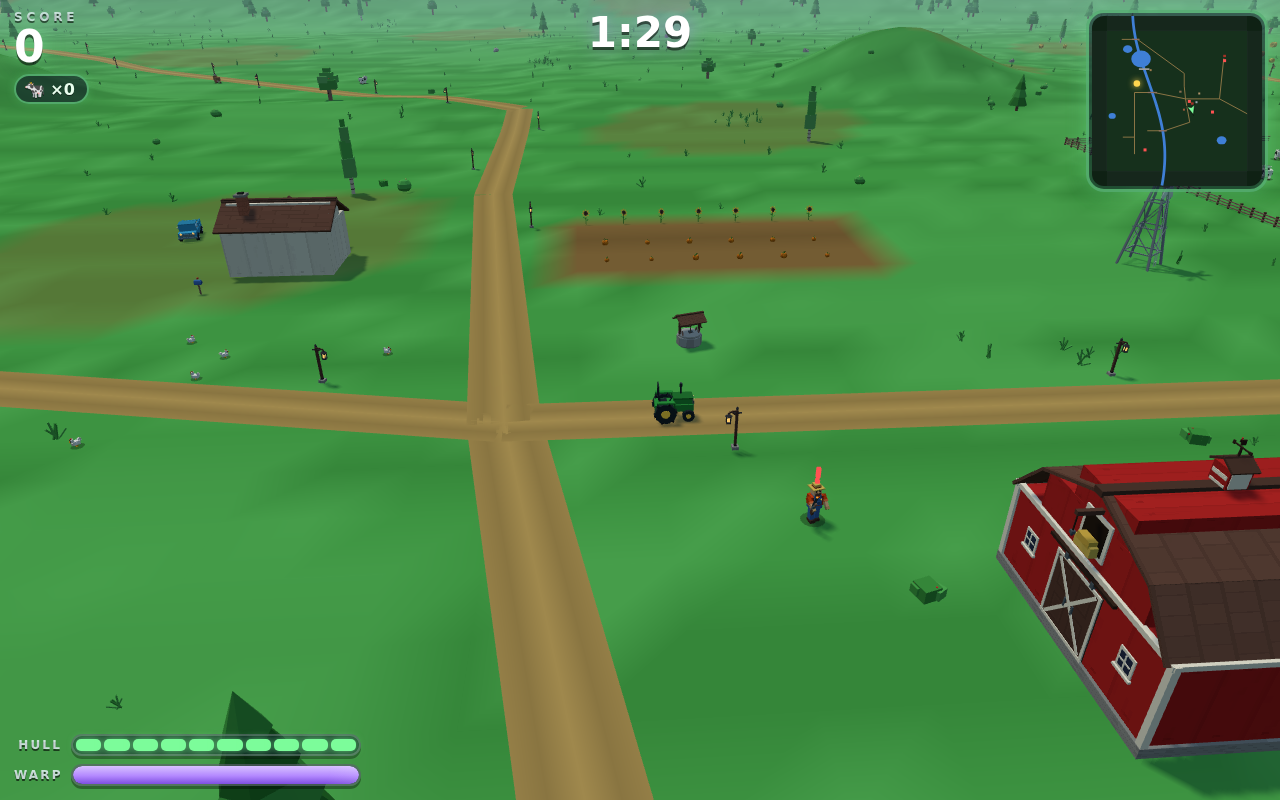
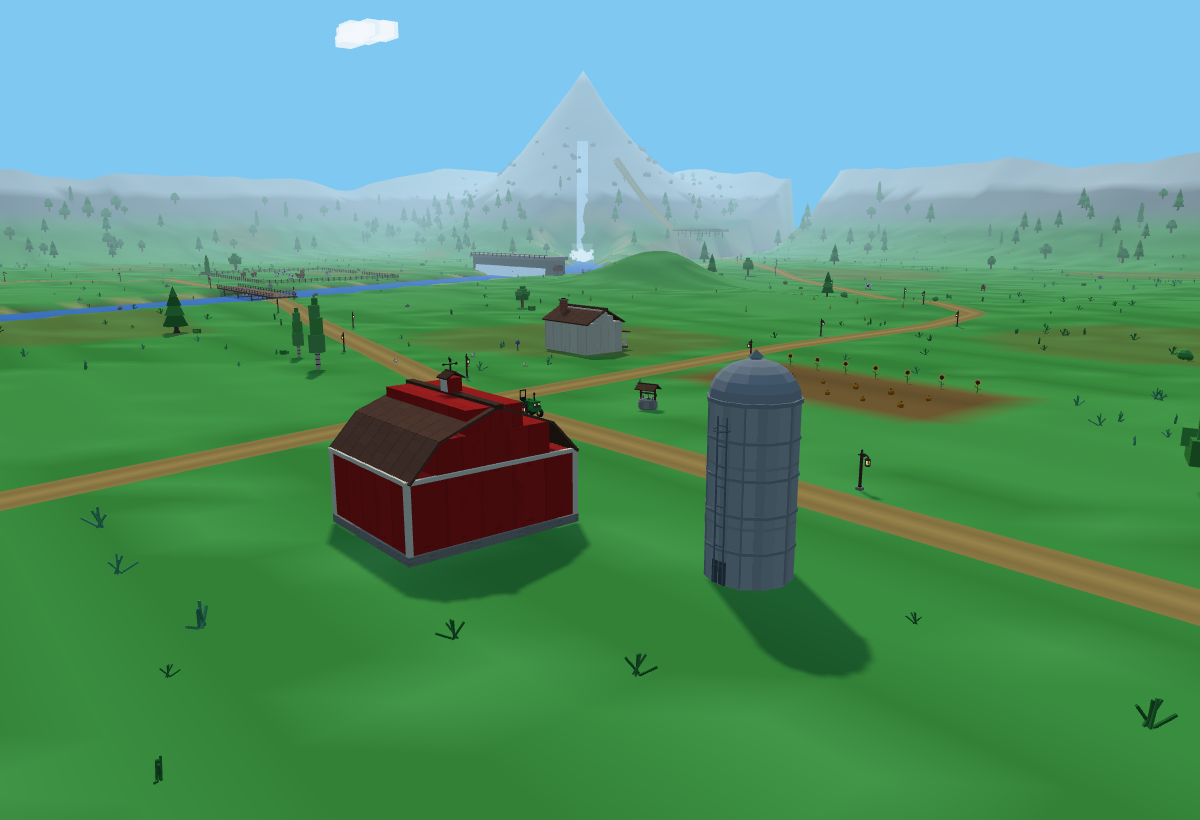
Cinematic mode-card art, emoji-free HUD/controls, cinematic free-cam hook
- New mode-select card images: sunset mountain+waterfall (Campaign), barn/farm vista (Free Play), starlit dam at night (Multiplayer), composed via a new debug free-camera hook
- Replaced HUD + touch-control emojis (cow chip, campaign goal, beam/warp/pause buttons) with crisp inline-SVG icons; removed dead day-clock code (☀/🌙)

Campaign level-select canvas redesign is in progress in js/ui.js (committed separately once complete).

https://claude.ai/code/session_01GTHb8vUvpoQFG3PNvNXKL4

diff --git a/js/hud.js b/js/hud.js
@@ -13,6 +13,23 @@ import { CFG } from './config.js';
 
 const HEALTH_SEGS = 10;
 
+// Crisp inline-SVG icons (no emojis anywhere in the HUD).
+const COW_SVG =
+  '<svg width="20" height="17" viewBox="0 0 20 17" aria-hidden="true">' +
+  '<path d="M3 3 Q1 1 2 5 Z" fill="#2b2b2b"/><path d="M17 3 Q19 1 18 5 Z" fill="#2b2b2b"/>' +
+  '<ellipse cx="10" cy="9" rx="6.6" ry="5.4" fill="#f5f5f0"/>' +
+  '<ellipse cx="6.4" cy="6.6" rx="2" ry="1.5" fill="#2b2b2b"/>' +
+  '<ellipse cx="13.8" cy="10.8" rx="1.5" ry="1.1" fill="#2b2b2b"/>' +
+  '<circle cx="8" cy="8.4" r="0.9" fill="#2b2b2b"/><circle cx="12" cy="8.4" r="0.9" fill="#2b2b2b"/>' +
+  '<ellipse cx="10" cy="12" rx="3.2" ry="2.2" fill="#f2a9b8"/>' +
+  '<circle cx="8.7" cy="12.1" r="0.6" fill="#c97a8c"/><circle cx="11.3" cy="12.1" r="0.6" fill="#c97a8c"/>' +
+  '</svg>';
+const TARGET_SVG =
+  '<svg width="16" height="16" viewBox="0 0 16 16" aria-hidden="true" style="vertical-align:-2px;margin-right:5px">' +
+  '<circle cx="8" cy="8" r="7" fill="none" stroke="#7cfc9a" stroke-width="2"/>' +
+  '<circle cx="8" cy="8" r="3.4" fill="none" stroke="#7cfc9a" stroke-width="2"/>' +
+  '<circle cx="8" cy="8" r="1.1" fill="#7cfc9a"/></svg>';
+
 // Day-phase tints — forwarded to end-screen backdrops via --mf-phase-glow.
 const CLOCK_TINTS = {
   NIGHT: '#7aa2ff',   // soft blue
@@ -66,7 +83,8 @@ export class HUD {
     this._scoreEl = el('div', 'mf-score', scoreWrap, '0');
     const chipRow = el('div', 'mf-chip-row', scoreWrap);
     const chip = el('div', 'mf-cow-chip', chipRow);
-    el('span', 'mf-cow-chip-ico', chip, '🐄');
+    const cowIco = el('span', 'mf-cow-chip-ico', chip);
+    cowIco.innerHTML = COW_SVG;
     this._cowsEl = el('span', 'mf-cow-chip-n', chip, '×0');
     this._comboEl = el('div', 'mf-combo mf-hidden', chipRow, '×2');
 
@@ -84,6 +102,8 @@ export class HUD {
       padding: '5px 12px', whiteSpace: 'nowrap', pointerEvents: 'none',
       textShadow: '0 1px 2px rgba(0,0,0,0.6)',
     });
+    this._goalEl.innerHTML = TARGET_SVG;
+    this._goalTxt = el('span', '', this._goalEl, '');
 
     // --- Bars (bottom-left) ---
     const bars = el('div', 'mf-bars', root);
@@ -148,35 +168,6 @@ export class HUD {
     this._mctx.drawImage(this._mapStatic, 0, 0, size, size);
   }
 
-  /**
-   * Day-cycle clock — a small semicircular arc dial. Lives OUTSIDE the HUD
-   * root (own element on document.body) so it stays visible through menus,
-   * pause and end screens; z-index sits above every overlay, pointer-events
-   * none. Hidden until the first updateClock() call arrives.
-   */
-  _buildClock() {
-    const root = el('div', 'mf-clock mf-clock-idle');
-    root.id = 'mf-clock';
-
-    const dial = el('div', 'mf-clock-dial', root);
-    el('div', 'mf-clock-horizon', dial);
-    this._sunEl = el('div', 'mf-clock-marker mf-clock-sun', dial, '☀');
-    this._moonEl = el('div', 'mf-clock-marker mf-clock-moon', dial, '🌙');
-
-    const label = el('div', 'mf-clock-name', root);
-    this._clockIconEl = el('span', 'mf-clock-ico', label, '');
-    this._clockNameEl = el('span', 'mf-clock-txt', label, '');
-
-    // Desktop docking: directly below the minimap (wrap = size + 12px chrome,
-    // top 10px, 8px gap). Small screens reposition via media query in CSS.
-    root.style.setProperty('--mf-clock-top', `${10 + this._mapSize + 12 + 8}px`);
-
-    document.body.appendChild(root);
-    this._clockEl = root;
-    this._clockQ = null;     // last phase, quantized to CLOCK_STEP
-    this._clockName = null;  // last phase name
-  }
-
   // ======================================================================
   // Public API
   // ======================================================================
@@ -188,7 +179,7 @@ export class HUD {
   update({ score, timeLeft, health, combo, warpEnergy, cows, goal } = {}) {
     const p = this._prev;
 
-    // Campaign goal pill: "🎯 score / target", greener once the goal is hit.
+    // Campaign goal pill (target icon + "score / target"); greener once hit.
     if (typeof goal === 'number') {
       const on = goal > 0;
       if (on !== p.goalOn) {
@@ -198,7 +189,7 @@ export class HUD {
       }
       if (on) {
         const sc = typeof score === 'number' ? score : 0;
-        this._goalEl.textContent = `🎯 ${sc.toLocaleString('en-US')} / ${goal.toLocaleString('en-US')}`;
+        this._goalTxt.textContent = `${sc.toLocaleString('en-US')} / ${goal.toLocaleString('en-US')}`;
         const hit = sc >= goal;
         if (hit !== p.goalHit) {
           p.goalHit = hit;

diff --git a/js/controls.js b/js/controls.js
@@ -246,11 +246,11 @@ export class Controls {
     this._btnWarp = document.createElement('button');
     this._btnWarp.type = 'button';
     this._btnWarp.className = 'mf-hold-btn mf-hold-warp';
-    this._btnWarp.innerHTML = '<span class="mf-hold-ico">⚡</span><span class="mf-hold-txt">WARP</span>';
+    this._btnWarp.innerHTML = '<span class="mf-hold-ico"><svg width="16" height="22" viewBox="0 0 16 22" aria-hidden="true"><polygon points="9,0 1,12 7,12 5,22 15,8 9,8" fill="#ffe14d"/></svg></span><span class="mf-hold-txt">WARP</span>';
     this._btnBeam = document.createElement('button');
     this._btnBeam.type = 'button';
     this._btnBeam.className = 'mf-hold-btn mf-hold-beam';
-    this._btnBeam.innerHTML = '<span class="mf-hold-ico">🛸</span><span class="mf-hold-txt">BEAM</span>';
+    this._btnBeam.innerHTML = '<span class="mf-hold-ico"><svg width="28" height="18" viewBox="0 0 28 18" aria-hidden="true"><ellipse cx="14" cy="11" rx="13" ry="4.6" fill="#9aa7b8"/><ellipse cx="14" cy="8" rx="6.5" ry="4.8" fill="#7ce8ff"/><circle cx="6" cy="11.4" r="1.2" fill="#7cfc9a"/><circle cx="14" cy="12.6" r="1.2" fill="#7cfc9a"/><circle cx="22" cy="11.4" r="1.2" fill="#7cfc9a"/></svg></span><span class="mf-hold-txt">BEAM</span>';
     btns.appendChild(this._btnWarp);
     btns.appendChild(this._btnBeam);
 
@@ -258,7 +258,7 @@ export class Controls {
     this._btnPause.type = 'button';
     this._btnPause.className = 'mf-touch-pause';
     this._btnPause.setAttribute('aria-label', 'Pause');
-    this._btnPause.textContent = '⏸';
+    this._btnPause.innerHTML = '<svg width="20" height="22" viewBox="0 0 20 22" aria-hidden="true"><rect x="3" y="2" width="5" height="18" rx="1.5" fill="#fff"/><rect x="12" y="2" width="5" height="18" rx="1.5" fill="#fff"/></svg>';
     root.appendChild(this._btnPause);
 
     document.body.appendChild(root);

diff --git a/js/main.js b/js/main.js
@@ -339,12 +339,20 @@ const camPos = new THREE.Vector3();
 let camYaw = Math.PI;        // yaw the camera sits behind
 let orbitOffset = 0;         // player's manual offset from the chase yaw
 let menuAngle = 0;
+let freeCam = null;          // cinematic camera override for promo captures
 
 function wrapAngle(a) {
   return ((a + Math.PI) % (Math.PI * 2) + Math.PI * 2) % (Math.PI * 2) - Math.PI;
 }
 
 function updateCamera(dt) {
+  if (freeCam) {   // debug/cinematic override (used for capturing promo art)
+    camera.position.set(freeCam.pos[0], freeCam.pos[1], freeCam.pos[2]);
+    camera.lookAt(freeCam.look[0], freeCam.look[1], freeCam.look[2]);
+    camera.fov = freeCam.fov || BASE_FOV;
+    camera.updateProjectionMatrix();
+    return;
+  }
   if (state === State.MENU) {
     menuAngle += dt * 0.08;
     const r = 70;
@@ -549,6 +557,8 @@ window.__MOOFO = {
   get target() { return target; },
   get campaign() { return campaign; },
   addScore(n) { score += n; },   // test hook
+  setFreeCam(pos, look, fov) { freeCam = { pos, look, fov }; },
+  clearFreeCam() { freeCam = null; },
 };
 
 resetRound();
